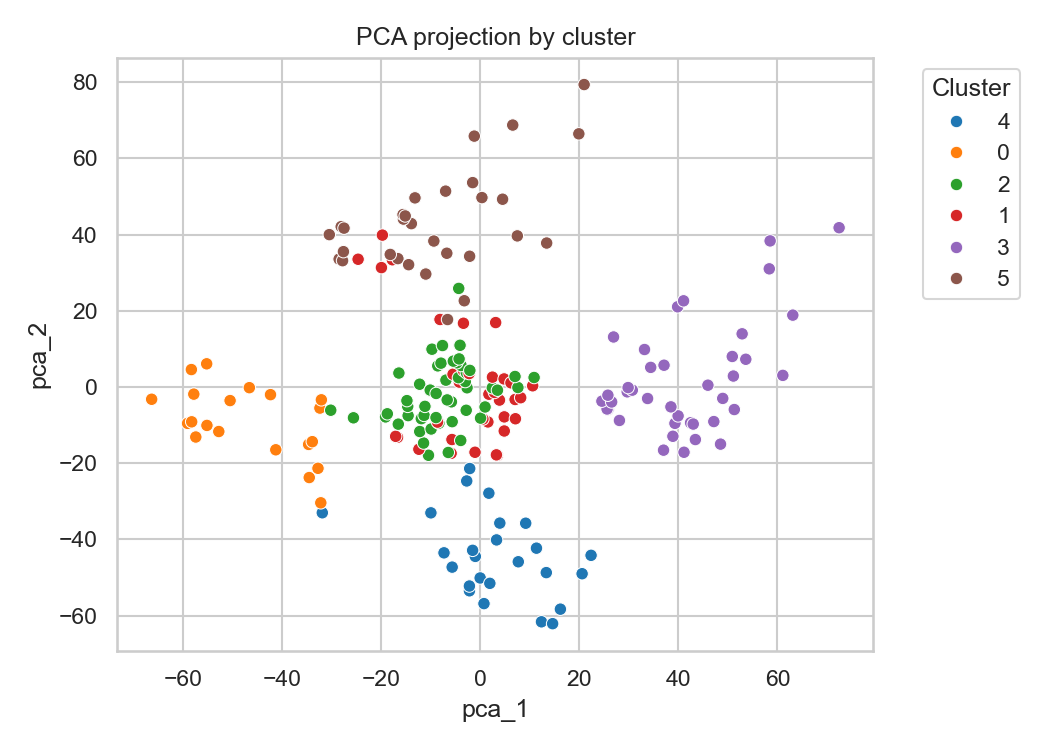
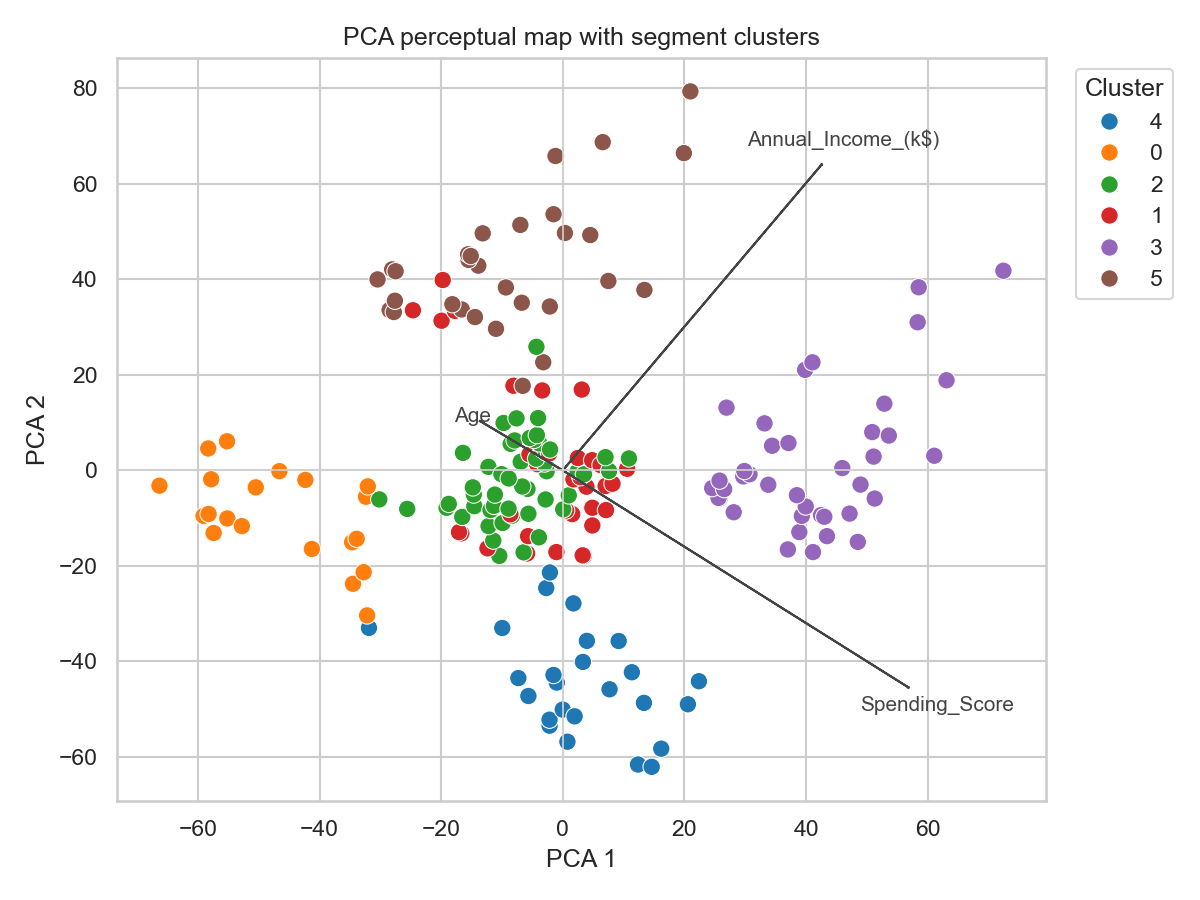
Added Perceptul Map
Added a perceptual map to help visualize consumer segments based on the input variables.

Changed region(s): [[0.0, 0.0307, 0.9752, 0.9813], [0.8229, 0.4907, 0.8838, 0.552]]

diff --git a/src/segmentation.py b/src/segmentation.py
@@ -110,15 +110,34 @@ def plot_pca(df: pd.DataFrame, features: List[str], labels: Optional[pd.Series],
     pca = PCA(n_components=2, random_state=42)
     embedded = pca.fit_transform(df[features])
     result = pd.DataFrame(embedded, columns=["pca_1", "pca_2"])
+    loadings = pca.components_.T
+
+    fig, ax = plt.subplots(figsize=(8, 6))
     if labels is not None:
         result["cluster"] = labels.astype(str)
-        fig, ax = plt.subplots(figsize=(7, 5))
-        sns.scatterplot(data=result, x="pca_1", y="pca_2", hue="cluster", palette="tab10", ax=ax)
-        ax.set_title("PCA projection by cluster")
-        ax.legend(title="Cluster", bbox_to_anchor=(1.05, 1), loc="upper left")
-        fig.tight_layout()
-        fig.savefig(output_path, dpi=150)
-        plt.close(fig)
+        sns.scatterplot(data=result, x="pca_1", y="pca_2", hue="cluster", palette="tab10", ax=ax, s=70, edgecolor="w", linewidth=0.5)
+        ax.legend(title="Cluster", bbox_to_anchor=(1.02, 1), loc="upper left")
+    else:
+        sns.scatterplot(data=result, x="pca_1", y="pca_2", color="#2c7fb8", ax=ax, s=70, edgecolor="w", linewidth=0.5)
+
+    # Perceptual map arrows for original variables
+    scale_x = np.max(np.abs(embedded[:, 0]))
+    scale_y = np.max(np.abs(embedded[:, 1]))
+    vectors = loadings * np.array([scale_x, scale_y])
+    for i, feature in enumerate(features):
+        x_vec, y_vec = vectors[i, 0], vectors[i, 1]
+        ax.arrow(0, 0, x_vec, y_vec, color="#444444", width=0.005, head_width=0.06, length_includes_head=True)
+        ax.text(x_vec * 1.08, y_vec * 1.08, feature, color="#444444", fontsize=10, ha="center", va="center")
+
+    ax.set_xlabel("PCA 1")
+    ax.set_ylabel("PCA 2")
+    ax.set_title("PCA perceptual map with segment clusters")
+    ax.axhline(0, color="#d3d3d3", linewidth=0.8)
+    ax.axvline(0, color="#d3d3d3", linewidth=0.8)
+    fig.tight_layout()
+    fig.savefig(output_path, dpi=150)
+    plt.close(fig)
+
     return pca
 
 
